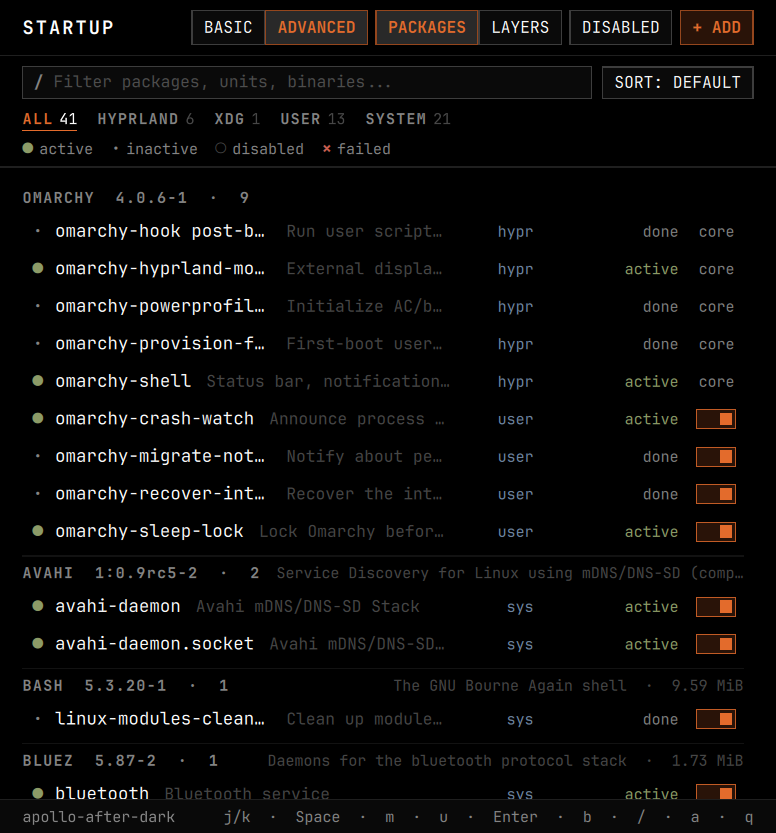
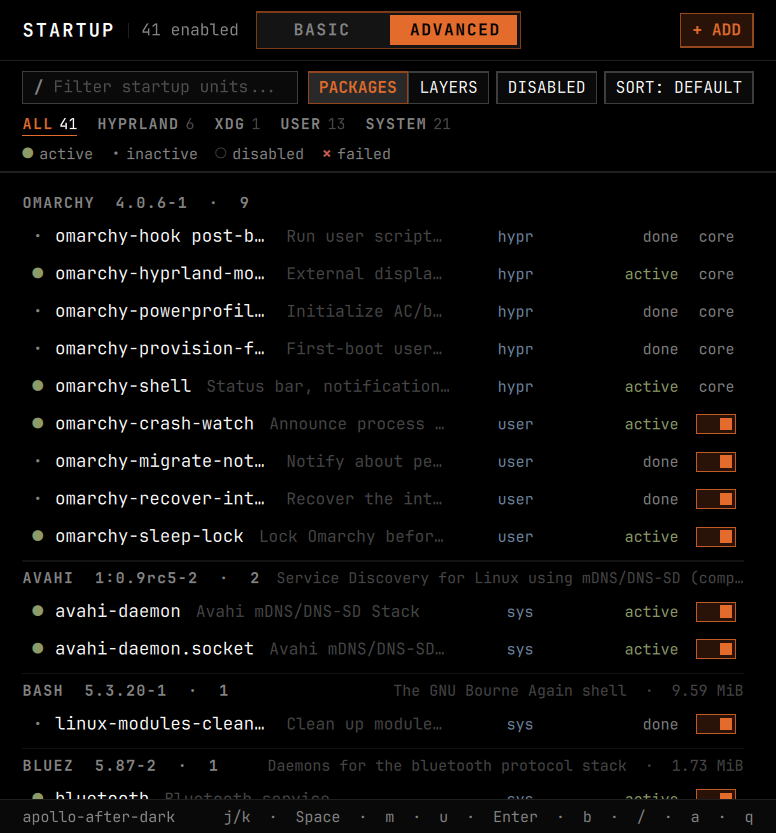
Center and style BASIC/ADVANCED mode switcher as prominent segmented control

diff --git a/qml/Main.qml b/qml/Main.qml
@@ -1263,11 +1263,11 @@ ShellRoot {
         anchors.fill: parent
         spacing: 0
 
-        // 1. Header Bar (minimalist flat strip, no window decorations)
+        // 1. Header Bar (minimalist flat strip, centered mode switcher)
         Item {
           id: headerBar
           width: parent.width
-          height: 44
+          height: 48
 
           Text {
             id: titleLabel
@@ -1284,13 +1284,130 @@ ShellRoot {
 
           Rectangle {
             id: headerSep
-            visible: statsLine.width >= 50
+            visible: statsLine.visible
             anchors.left: titleLabel.right
-            anchors.leftMargin: 12
+            anchors.leftMargin: 10
             anchors.verticalCenter: parent.verticalCenter
             width: 1
             height: 12
             color: OmaTheme.hairline
+          }
+
+          // Centered Prominent Mode Switcher (BASIC / ADVANCED)
+          Rectangle {
+            id: modeSwitcher
+            anchors.centerIn: parent
+            width: 212
+            height: 30
+            radius: OmaTheme.cornerRadius
+            color: OmaTheme.elevated
+            border.width: 1
+            border.color: OmaTheme.rgba(OmaTheme.accent, 0.55)
+
+            // Sliding solid-accent active pill
+            Rectangle {
+              id: activeModePill
+              y: 3
+              x: app.currentMode === "apps" ? 3 : (parent.width / 2 + 1)
+              width: parent.width / 2 - 4
+              height: parent.height - 6
+              radius: Math.max(0, OmaTheme.cornerRadius - 2)
+              color: OmaTheme.accent
+
+              Behavior on x {
+                NumberAnimation { duration: 140; easing.type: Easing.OutCubic }
+              }
+            }
+
+            // BASIC segment
+            Item {
+              x: 0
+              y: 0
+              width: parent.width / 2
+              height: parent.height
+
+              Rectangle {
+                visible: basicSegMouse.containsMouse && app.currentMode !== "apps"
+                anchors.fill: parent
+                anchors.margins: 3
+                anchors.rightMargin: 1
+                radius: Math.max(0, OmaTheme.cornerRadius - 2)
+                color: OmaTheme.hoverFill
+              }
+
+              Text {
+                anchors.centerIn: parent
+                text: "BASIC"
+                font.family: OmaTheme.fontFamily
+                font.pixelSize: OmaTheme.fontSmall
+                font.bold: true
+                font.letterSpacing: 1.3
+                color: app.currentMode === "apps"
+                  ? OmaTheme.onAccent
+                  : (basicSegMouse.containsMouse ? OmaTheme.foreground : OmaTheme.muted)
+              }
+
+              MouseArea {
+                id: basicSegMouse
+                anchors.fill: parent
+                hoverEnabled: true
+                cursorShape: Qt.PointingHandCursor
+                onEntered: app.statusMessage = "Basic mode: desktop startup applications (shortcut: m)"
+                onExited: app.statusMessage = ""
+                onClicked: {
+                  if (app.currentMode !== "apps") {
+                    app.currentMode = "apps"
+                    app.recomputeMetrics()
+                    app.rebuildRows()
+                  }
+                }
+              }
+            }
+
+            // ADVANCED segment
+            Item {
+              x: parent.width / 2
+              y: 0
+              width: parent.width / 2
+              height: parent.height
+
+              Rectangle {
+                visible: advSegMouse.containsMouse && app.currentMode !== "system"
+                anchors.fill: parent
+                anchors.margins: 3
+                anchors.leftMargin: 1
+                radius: Math.max(0, OmaTheme.cornerRadius - 2)
+                color: OmaTheme.hoverFill
+              }
+
+              Text {
+                anchors.centerIn: parent
+                text: "ADVANCED"
+                font.family: OmaTheme.fontFamily
+                font.pixelSize: OmaTheme.fontSmall
+                font.bold: true
+                font.letterSpacing: 1.3
+                color: app.currentMode === "system"
+                  ? OmaTheme.onAccent
+                  : (advSegMouse.containsMouse ? OmaTheme.foreground : OmaTheme.muted)
+              }
+
+              MouseArea {
+                id: advSegMouse
+                anchors.fill: parent
+                hoverEnabled: true
+                cursorShape: Qt.PointingHandCursor
+                onEntered: app.statusMessage = "Advanced mode: full systemd daemons, timers & diagnostics (shortcut: m)"
+                onExited: app.statusMessage = ""
+                onClicked: {
+                  if (app.currentMode !== "system") {
+                    app.currentMode = "system"
+                    app.recomputeMetrics()
+                    app.rebuildRows()
+                  }
+                }
+              }
+            }
           }
 
           Row {
@@ -1311,57 +1428,6 @@ ShellRoot {
               }
             }
 
-            // Mode switcher: BASIC vs ADVANCED
-            Row {
-              spacing: 0
-              OmaButton {
-                text: "BASIC"
-                active: app.currentMode === "apps"
-                onClicked: {
-                  app.currentMode = "apps"
-                  app.recomputeMetrics()
-                  app.rebuildRows()
-                }
-              }
-              OmaButton {
-                text: "ADVANCED"
-                active: app.currentMode === "system"
-                onClicked: {
-                  app.currentMode = "system"
-                  app.recomputeMetrics()
-                  app.rebuildRows()
-                }
-              }
-            }
-
-            // View modes in System mode
-            Row {
-              spacing: 0
-              visible: app.currentMode === "system"
-              OmaButton {
-                text: "PACKAGES"
-                active: app.viewMode === "packages" && !app.filterFailedOnly
-                onClicked: { app.filterFailedOnly = false; app.viewMode = "packages"; app.rebuildRows() }
-              }
-              OmaButton {
-                text: "LAYERS"
-                active: app.viewMode === "layers" && !app.filterFailedOnly
-                onClicked: { app.filterFailedOnly = false; app.viewMode = "layers"; app.rebuildRows() }
-              }
-            }
-
-            OmaButton {
-              text: app.currentMode === "apps"
-                ? ("DISABLED" + (app.countDisabled > 0 ? " (" + app.countDisabled + ")" : ""))
-                : "DISABLED"
-              active: app.showDisabled
-              onClicked: {
-                app.showDisabled = !app.showDisabled
-                app.recomputeMetrics()
-                app.rebuildRows()
-              }
-            }
-
             OmaButton {
               text: "+ ADD"
               accentStyle: true
@@ -1372,26 +1438,28 @@ ShellRoot {
           Text {
             id: statsLine
             anchors.left: headerSep.right
-            anchors.leftMargin: 12
-            anchors.right: rightHeaderRow.left
-            anchors.rightMargin: 14
+            anchors.leftMargin: 10
+            anchors.right: modeSwitcher.left
+            anchors.rightMargin: 10
             anchors.verticalCenter: parent.verticalCenter
-            visible: width >= 50
+            visible: width >= 74
             elide: Text.ElideRight
             textFormat: Text.PlainText
             text: {
               if (app.loading) return "scanning..."
               if (app.currentMode === "apps") {
-                return app.countEnabled + " apps launch at login"
+                if (width >= 150) {
+                  return app.countEnabled + (app.countEnabled === 1 ? " app at login" : " apps at login")
+                }
+                return app.countEnabled + " enabled"
               }
-              if (width >= 320) {
-                return app.countEnabled + " enabled  ·  " + app.countPackages + " pkgs  ·  " +
-                       app.countRunning + " active  ·  boot " + app.bootUserspace
-              }
-              if (width >= 215) {
+              if (width >= 300) {
                 return app.countEnabled + " enabled  ·  " + app.countPackages + " pkgs  ·  boot " + app.bootUserspace
               }
-              return app.countEnabled + " enabled  ·  " + app.countPackages + " pkgs"
+              if (width >= 185) {
+                return app.countEnabled + " enabled  ·  boot " + app.bootUserspace
+              }
+              return app.countEnabled + " enabled"
             }
             font.family: OmaTheme.fontFamily
             font.pixelSize: OmaTheme.fontSmall
@@ -1411,7 +1479,7 @@ ShellRoot {
 
         Rectangle { width: parent.width; height: 1; color: OmaTheme.hairline }
 
-        // 2. Filter Input + Sort + Scope Strip + Responsive Status Legend
+        // 2. Filter Input + View/Sort Controls + Scope Strip + Responsive Status Legend
         Item {
           id: filterBar
           width: parent.width
@@ -1433,7 +1501,7 @@ ShellRoot {
             anchors.topMargin: 8
             spacing: filterBar.wrapLegend ? 6 : 8
 
-            // Search + Sort row
+            // Search + View/Filter/Sort row
             Item {
               width: parent.width
               height: 26
@@ -1441,7 +1509,7 @@ ShellRoot {
               Rectangle {
                 id: searchBox
                 anchors.left: parent.left
-                anchors.right: sortBtn.left
+                anchors.right: filterControlsRow.left
                 anchors.rightMargin: 8
                 height: 26
                 radius: OmaTheme.cornerRadius
@@ -1482,8 +1550,11 @@ ShellRoot {
                   Text {
                     anchors.fill: parent
                     verticalAlignment: Text.AlignVCenter
+                    elide: Text.ElideRight
                     visible: filterInput.text.length === 0 && !filterInput.activeFocus
-                    text: app.currentMode === "apps" ? "Search startup applications..." : "Filter packages, units, binaries..."
+                    text: app.currentMode === "apps"
+                      ? "Search startup applications..."
+                      : (searchBox.width >= 280 ? "Filter packages, units, binaries..." : "Filter startup units...")
                     font.family: OmaTheme.fontFamily
                     font.pixelSize: OmaTheme.fontSmall
                     color: OmaTheme.faint
@@ -1511,15 +1582,56 @@ ShellRoot {
                 }
               }
 
-              OmaButton {
-                id: sortBtn
+              Row {
+                id: filterControlsRow
                 anchors.right: parent.right
                 height: 26
-                text: "SORT: " + app.sortLabels[app.sortMode]
-                active: app.sortMode !== 0
-                onClicked: {
-                  app.sortMode = (app.sortMode + 1) % 3
-                  app.rebuildRows()
+                spacing: 6
+
+                // View modes in Advanced mode (PACKAGES vs LAYERS)
+                Row {
+                  spacing: 0
+                  visible: app.currentMode === "system"
+                  OmaButton {
+                    height: 26
+                    hPad: 9
+                    text: "PACKAGES"
+                    active: app.viewMode === "packages" && !app.filterFailedOnly
+                    onClicked: { app.filterFailedOnly = false; app.viewMode = "packages"; app.rebuildRows() }
+                  }
+                  OmaButton {
+                    height: 26
+                    hPad: 9
+                    text: "LAYERS"
+                    active: app.viewMode === "layers" && !app.filterFailedOnly
+                    onClicked: { app.filterFailedOnly = false; app.viewMode = "layers"; app.rebuildRows() }
+                  }
+                }
+
+                OmaButton {
+                  height: 26
+                  hPad: 9
+                  text: app.currentMode === "apps"
+                    ? ("DISABLED" + (app.countDisabled > 0 ? " (" + app.countDisabled + ")" : ""))
+                    : "DISABLED"
+                  active: app.showDisabled
+                  onClicked: {
+                    app.showDisabled = !app.showDisabled
+                    app.recomputeMetrics()
+                    app.rebuildRows()
+                  }
+                }
+
+                OmaButton {
+                  id: sortBtn
+                  height: 26
+                  hPad: 9
+                  text: "SORT: " + app.sortLabels[app.sortMode]
+                  active: app.sortMode !== 0
+                  onClicked: {
+                    app.sortMode = (app.sortMode + 1) % 3
+                    app.rebuildRows()
+                  }
                 }
               }
             }

diff --git a/qml/OmaTheme.qml b/qml/OmaTheme.qml
@@ -45,6 +45,7 @@ QtObject {
   readonly property color selectedFill: rgba(foreground, 0.16)
   readonly property color pressedFill: rgba(foreground, 0.22)
   readonly property color accentFill: rgba(accent, 0.18)
+  readonly property color onAccent: (0.299 * accent.r + 0.587 * accent.g + 0.114 * accent.b) > 0.45 ? background : "#FFFFFF"
   readonly property color normalBorder: rgba(foreground, 0.24)
   readonly property color hoverBorder: rgba(foreground, 0.36)
   readonly property color scrim: Qt.rgba(0, 0, 0, 0.72)
